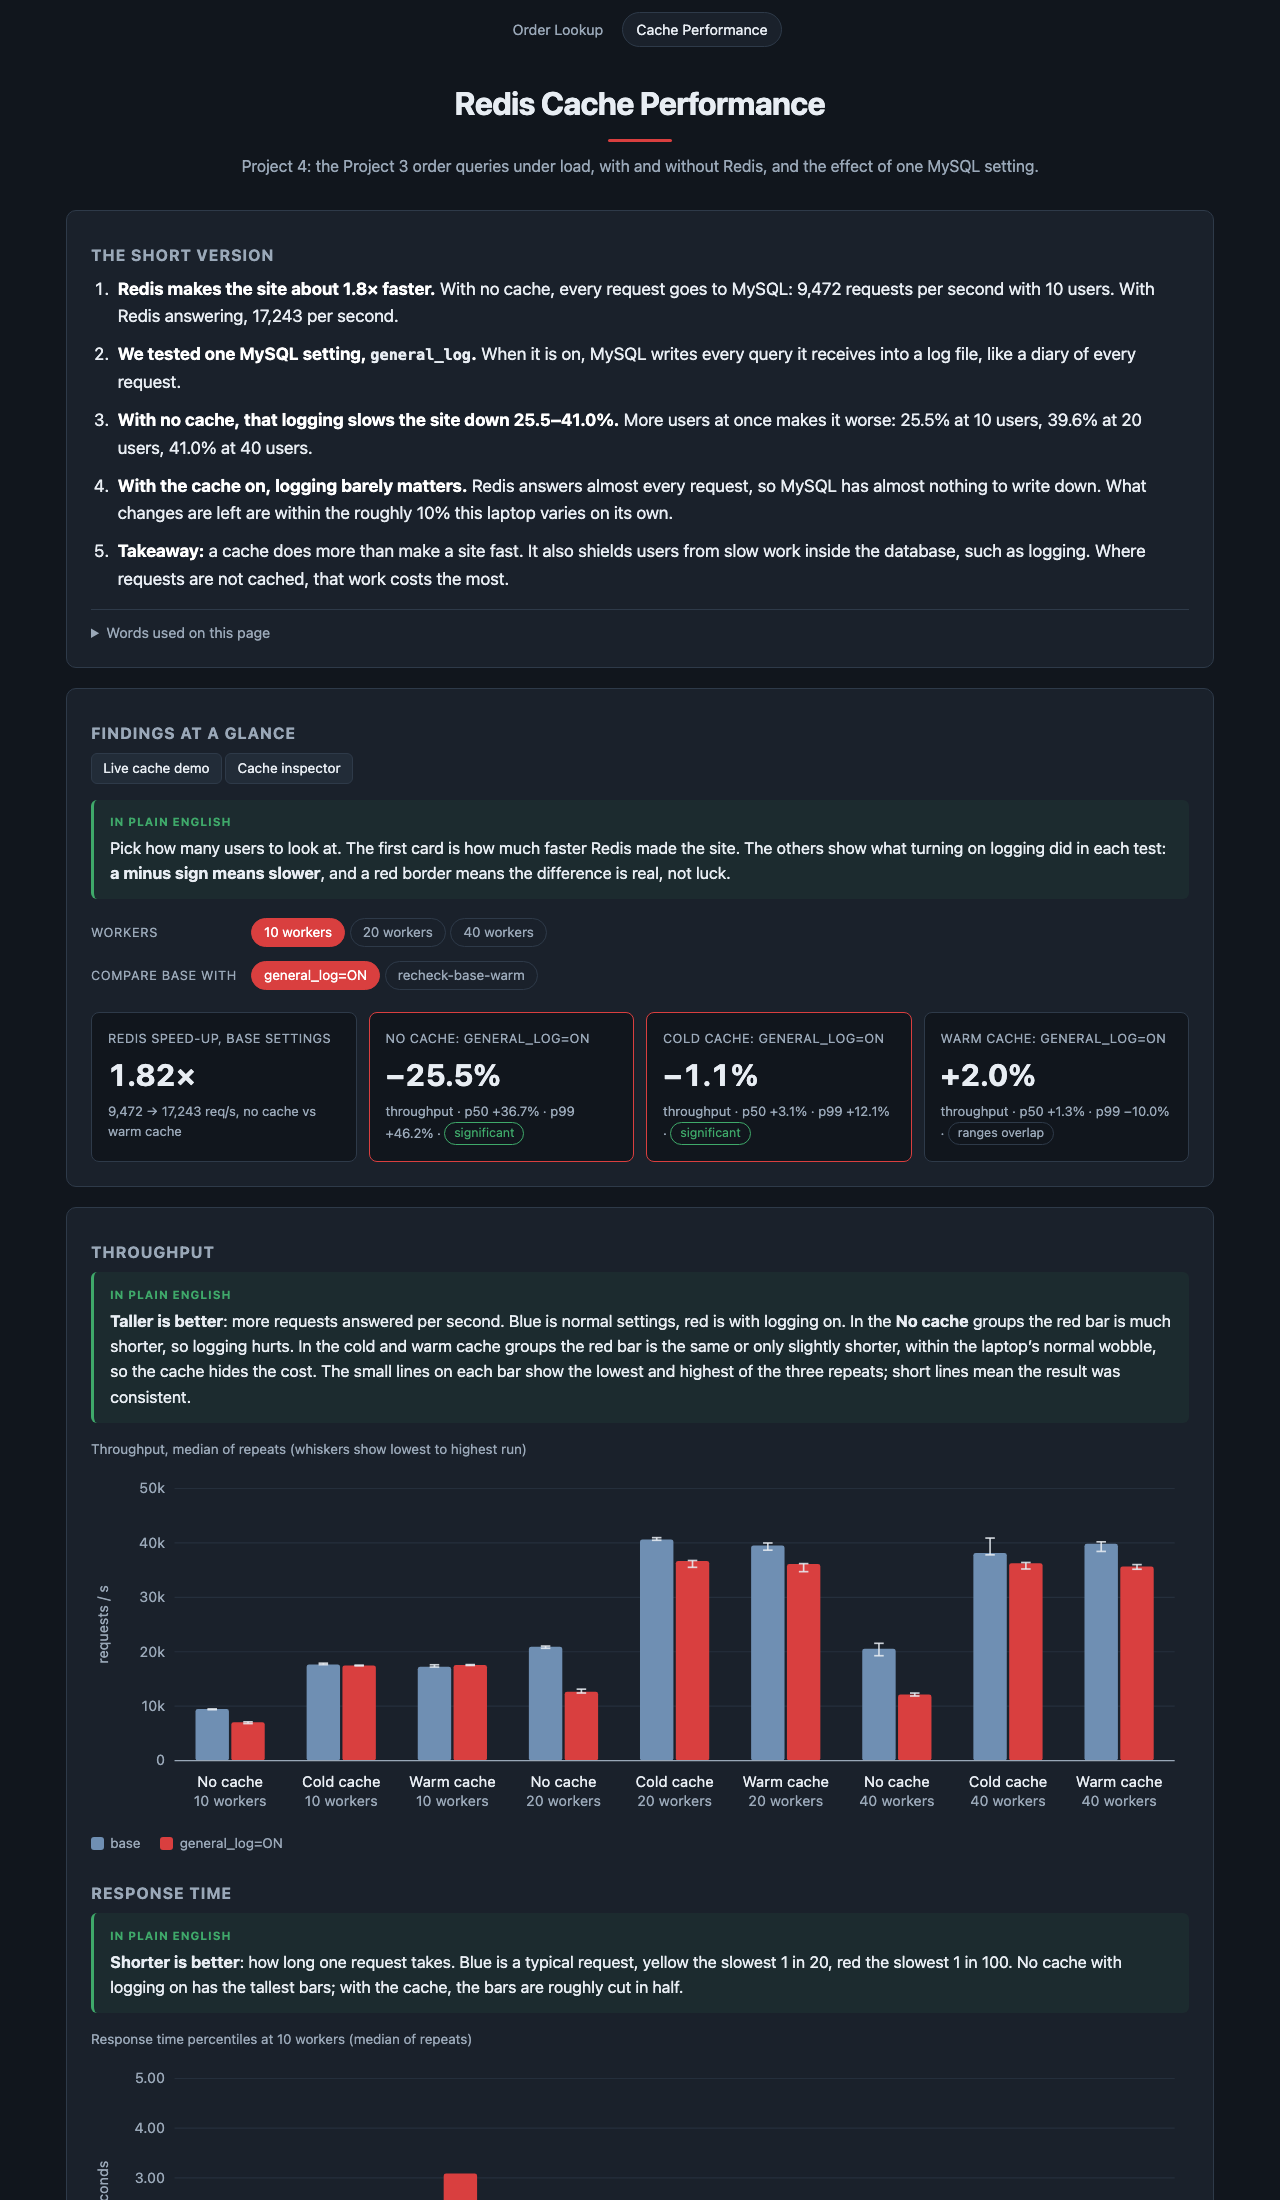
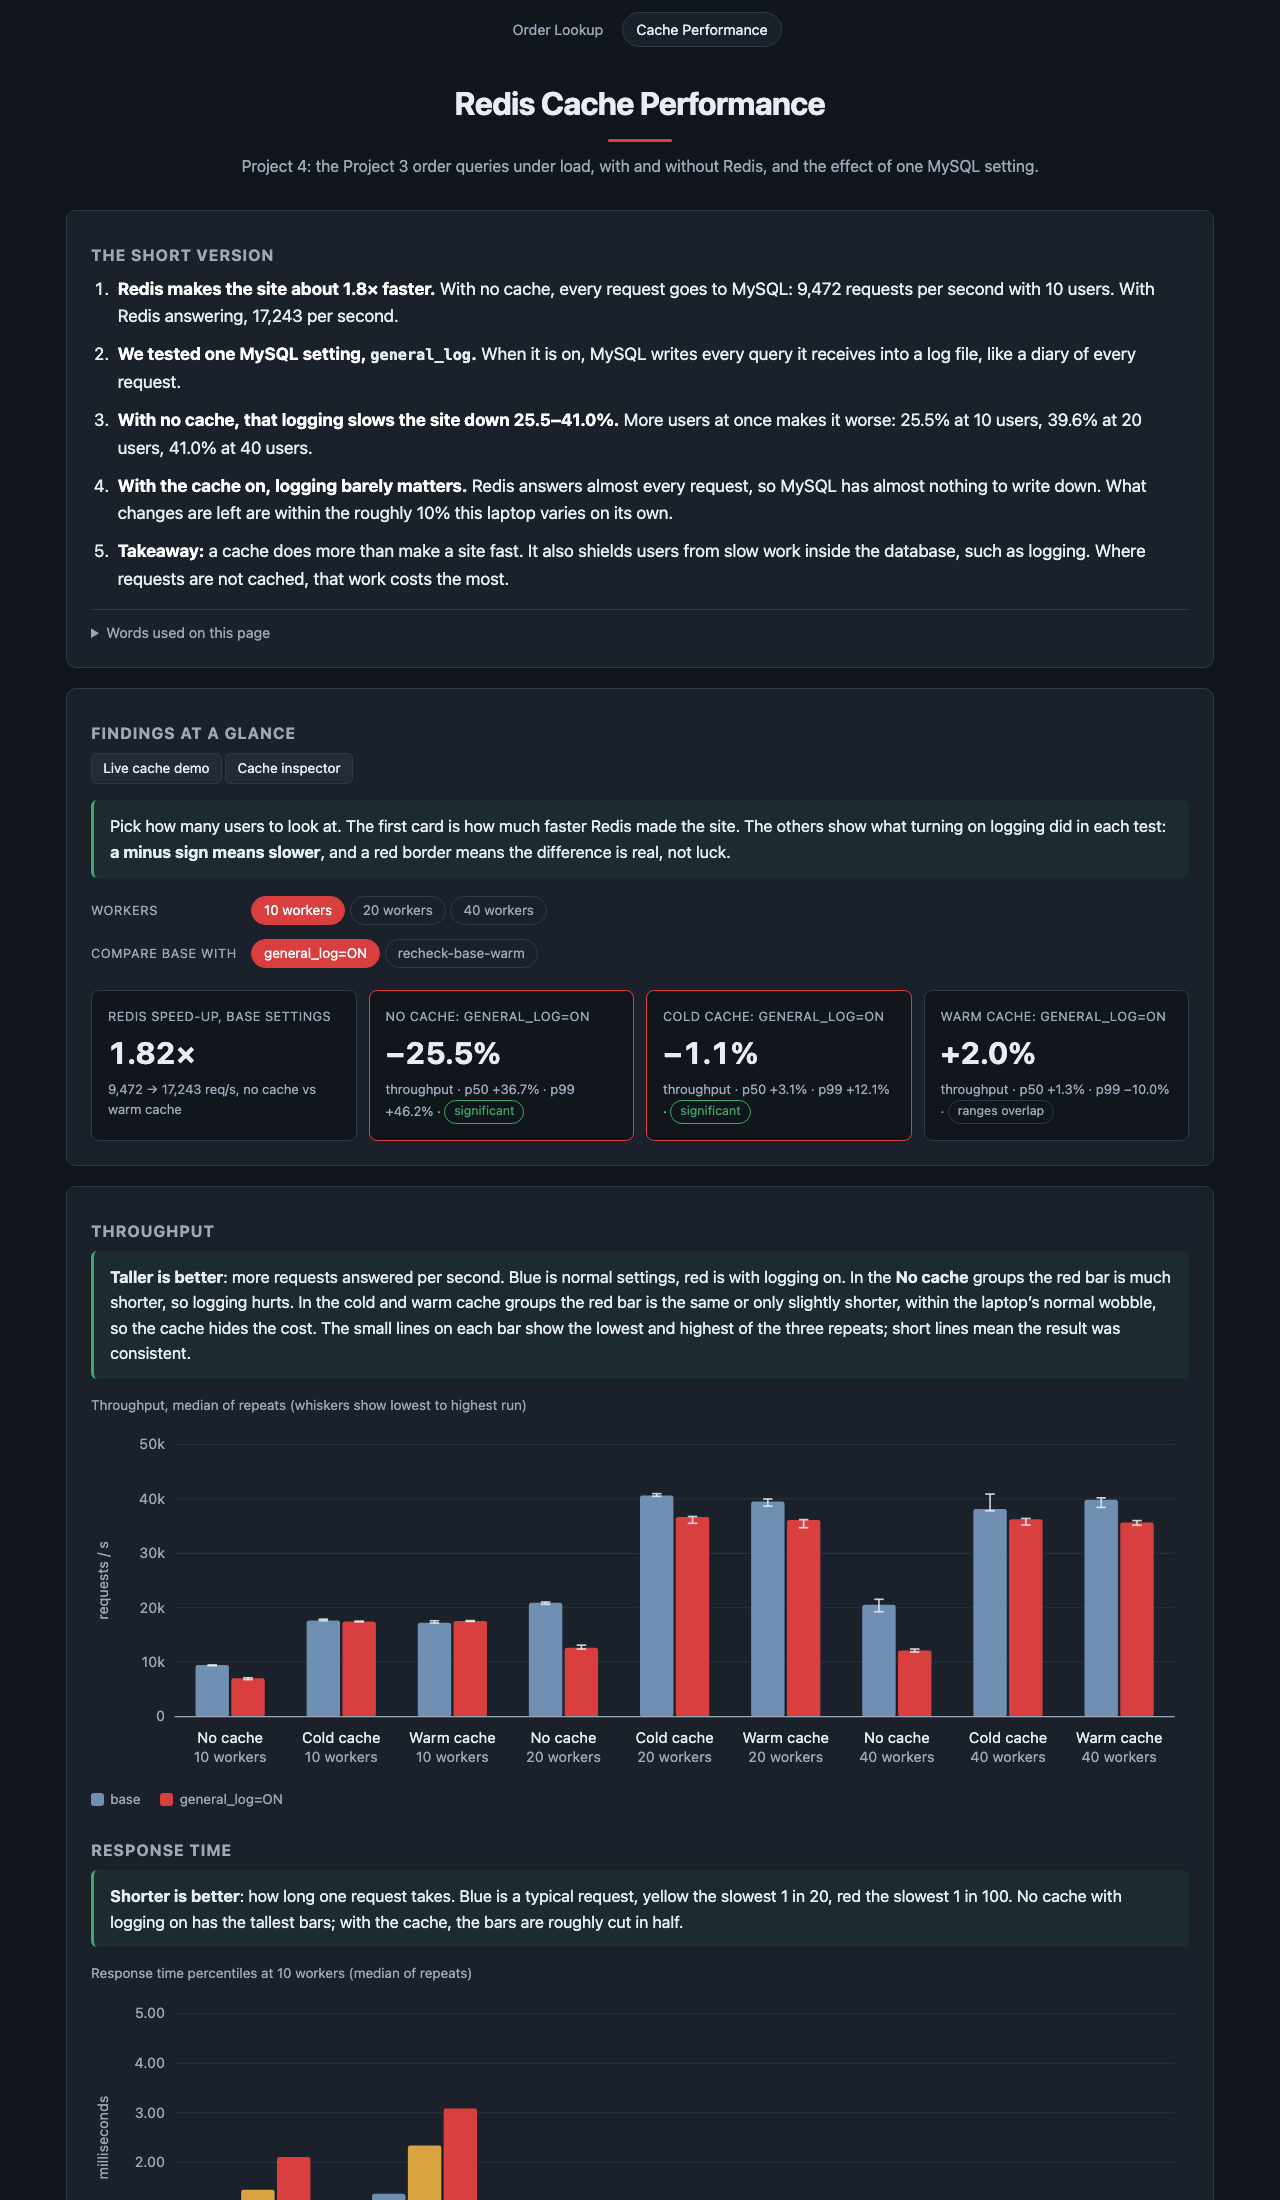
Drop the In plain English label from the explanation boxes
Generated with [Devin](https://devin.ai)

diff --git a/app/public/css/app.css b/app/public/css/app.css
@@ -380,16 +380,6 @@ input:focus, select:focus {
   line-height: 1.55;
 }
 
-.explain-label {
-  display: block;
-  margin-bottom: 0.25rem;
-  color: var(--ok);
-  font-size: 0.72rem;
-  font-weight: 700;
-  text-transform: uppercase;
-  letter-spacing: 0.08em;
-}
-
 .story { margin: 0; padding-left: 1.4rem; font-size: 1.08rem; line-height: 1.6; }
 .story li { margin-bottom: 0.65rem; padding-left: 0.25rem; }
 .story strong { color: #fff; }

diff --git a/app/lib/performance-view.js b/app/lib/performance-view.js
@@ -20,7 +20,7 @@ const SETTING_NAMES = {
 const LOG_LABEL = 'general_log=ON';
 
 function explain(html) {
-  return `<div class="explain"><span class="explain-label">In plain English</span>${html}</div>`;
+  return `<div class="explain">${html}</div>`;
 }
 
 function change(from, to) {
